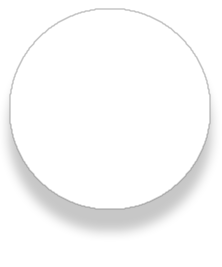
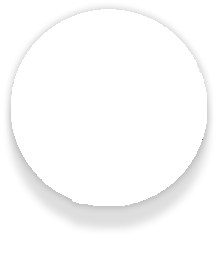
修改头像阴影并取消标签的换行

diff --git a/songer_head_portrait.py b/songer_head_portrait.py
@@ -2,9 +2,68 @@ import sys
 
 from PyQt5.QtCore import QEvent, QPoint, Qt
 from PyQt5.QtGui import QBitmap, QPainter, QPixmap
-from PyQt5.QtWidgets import QApplication, QLabel, QPushButton, QWidget, QVBoxLayout
+from PyQt5.QtWidgets import QApplication, QLabel, QVBoxLayout, QWidget
 
 from my_button import SongerAddToButton, SongerPlayButton
+
+
+class SongerCard(QWidget):
+    """ 定义一个包含歌手头像和名字的类 """
+
+    def __init__(self, songer_pic_path, songer_name):
+        super().__init__()
+
+        # 实例化歌手名标签和背景
+        self.backgroundLabel = QLabel(self)
+        self.songerNameLabel = SongerName(songer_name, self)
+
+        # 实例化歌手头像
+        self.songerHeadPortrait = SongerHeadPortrait(songer_pic_path, self)
+
+        # 初始化小部件
+        self.initWidget()
+
+        # 设置层叠样式
+        self.setQss()
+
+    def initWidget(self):
+        """ 初始化小部件 """
+        self.resize(222, 267)
+
+        self.setWindowFlags(Qt.FramelessWindowHint)
+
+        # 设置小部件的绝对位置
+        self.songerHeadPortrait.move(10, 8)
+        self.songerNameLabel.move(1, 212)
+
+        # 初始化背景图片
+        self.backgroundLabel.setPixmap(
+            QPixmap('resource\\images\\歌手头像无阴影.png'))
+
+        # 设置监听
+        self.installEventFilter(self)
+
+    def eventFilter(self, obj, e):
+        """ 鼠标进入窗口时显示阴影和按钮，否则不显示 """
+        if obj == self:
+            if e.type() == QEvent.Enter:
+                self.backgroundLabel.setPixmap(
+                    QPixmap('resource\\images\\歌手头像阴影.png'))
+                self.songerHeadPortrait.addToButton.show()
+                self.songerHeadPortrait.playButton.show()
+            elif e.type() == QEvent.Leave:
+                self.backgroundLabel.setPixmap(
+                    QPixmap('resource\\images\\歌手头像无阴影.png'))
+                self.songerHeadPortrait.addToButton.setHidden(True)
+                self.songerHeadPortrait.playButton.setHidden(True)
+
+        return False
+
+    def setQss(self):
+        """ 设置层叠样式 """
+        with open('resource\\css\\songerCard.qss', 'r', encoding='utf-8') as f:
+            qss = f.read()
+            self.setStyleSheet(qss)
 
 
 class SongerHeadPortrait(QWidget):
@@ -48,77 +107,32 @@ class SongerHeadPortrait(QWidget):
         pix = QPixmap(self.songer_pic_path).scaled(
             200, 200, Qt.KeepAspectRatio, Qt.SmoothTransformation)
         painter.drawPixmap(0, 0, self.width(), self.height(), pix)
-        # painter.drawPixmap(0,0,self.width(),self.height(),QPixmap('resource\\images\\中空白色背景.png'))
 
 
-class SongerCard(QWidget):
-    """ 定义一个包含歌手头像和名字的类 """
+class SongerName(QWidget):
+    """ 歌手名标签 """
 
-    def __init__(self, songer_pic_path, songer_name):
-        super().__init__()
+    def __init__(self, songer_name, parent=None):
+        super().__init__(parent)
+
+        self.setFixedWidth(220)
 
         # 实例化歌手名标签
-        self.backgroundLabel = QLabel(self)
         self.songerNameLabel = QLabel(songer_name, self)
+        # 实例化布局
+        self.v_layout = QVBoxLayout()
 
-        # 实例化歌手头像
-        self.songerHeadPortrait = SongerHeadPortrait(songer_pic_path, self)
-
-        # 初始化小部件
-        self.initWidget()
-
-        # 设置层叠样式
-        self.setQss()
-
-    def initWidget(self):
-        """ 初始化小部件 """
-        self.resize(222, 267)
-        #self.songerNameLabel.setFixedWidth(200)
-        self.setWindowFlags(Qt.FramelessWindowHint)
-
-        # 设置小部件的绝对位置
-        self.songerHeadPortrait.move(10,8)
-        self.songerNameLabel.move(
-            int(0.5*self.width() - 0.5 * self.songerNameLabel.width()), 222)
+        # 初始化布局
+        self.v_layout.addWidget(self.songerNameLabel, 0, Qt.AlignHCenter)
+        self.setLayout(self.v_layout)
 
         # 设置自动换行
-        
-        self.songerNameLabel.setWordWrap(True)
-        self.songerNameLabel.setScaledContents(True)
-
-        # 初始化背景图片
-        self.backgroundLabel.setPixmap(
-            QPixmap('resource\\images\\歌手头像无阴影.png'))
-
-        # 设置监听
-        self.installEventFilter(self)
-
-    def eventFilter(self, obj, e):
-        """ 鼠标进入窗口时显示阴影和按钮，否则不显示 """
-        if obj == self:
-            if e.type() == QEvent.Enter:
-                self.backgroundLabel.setPixmap(
-                    QPixmap('resource\\images\\歌手头像阴影.png'))
-                self.songerHeadPortrait.addToButton.show()
-                self.songerHeadPortrait.playButton.show()
-            elif e.type() == QEvent.Leave:
-                self.backgroundLabel.setPixmap(
-                    QPixmap('resource\\images\\歌手头像无阴影.png'))
-                self.songerHeadPortrait.addToButton.setHidden(True)
-                self.songerHeadPortrait.playButton.setHidden(True)
-
-        return False
-
-    def setQss(self):
-        """ 设置层叠样式 """
-        with open('resource\\css\\songerCard.qss', 'r', encoding='utf-8') as f:
-            qss = f.read()
-            self.setStyleSheet(qss)
+        #self.songerNameLabel.setWordWrap(True)
 
 
 if __name__ == "__main__":
     app = QApplication(sys.argv)
     songCard = SongerCard(
-        'resource\\Songer Photos\\BIGBANG\\BIGBANG.jpg', 'BigBang')
+        'resource\\Songer Photos\\Carly Rae Jepsen\\Carly Rae Jepsen.jpg', 'Carly Rae Jepsen')
     songCard.show()
     sys.exit(app.exec_())
